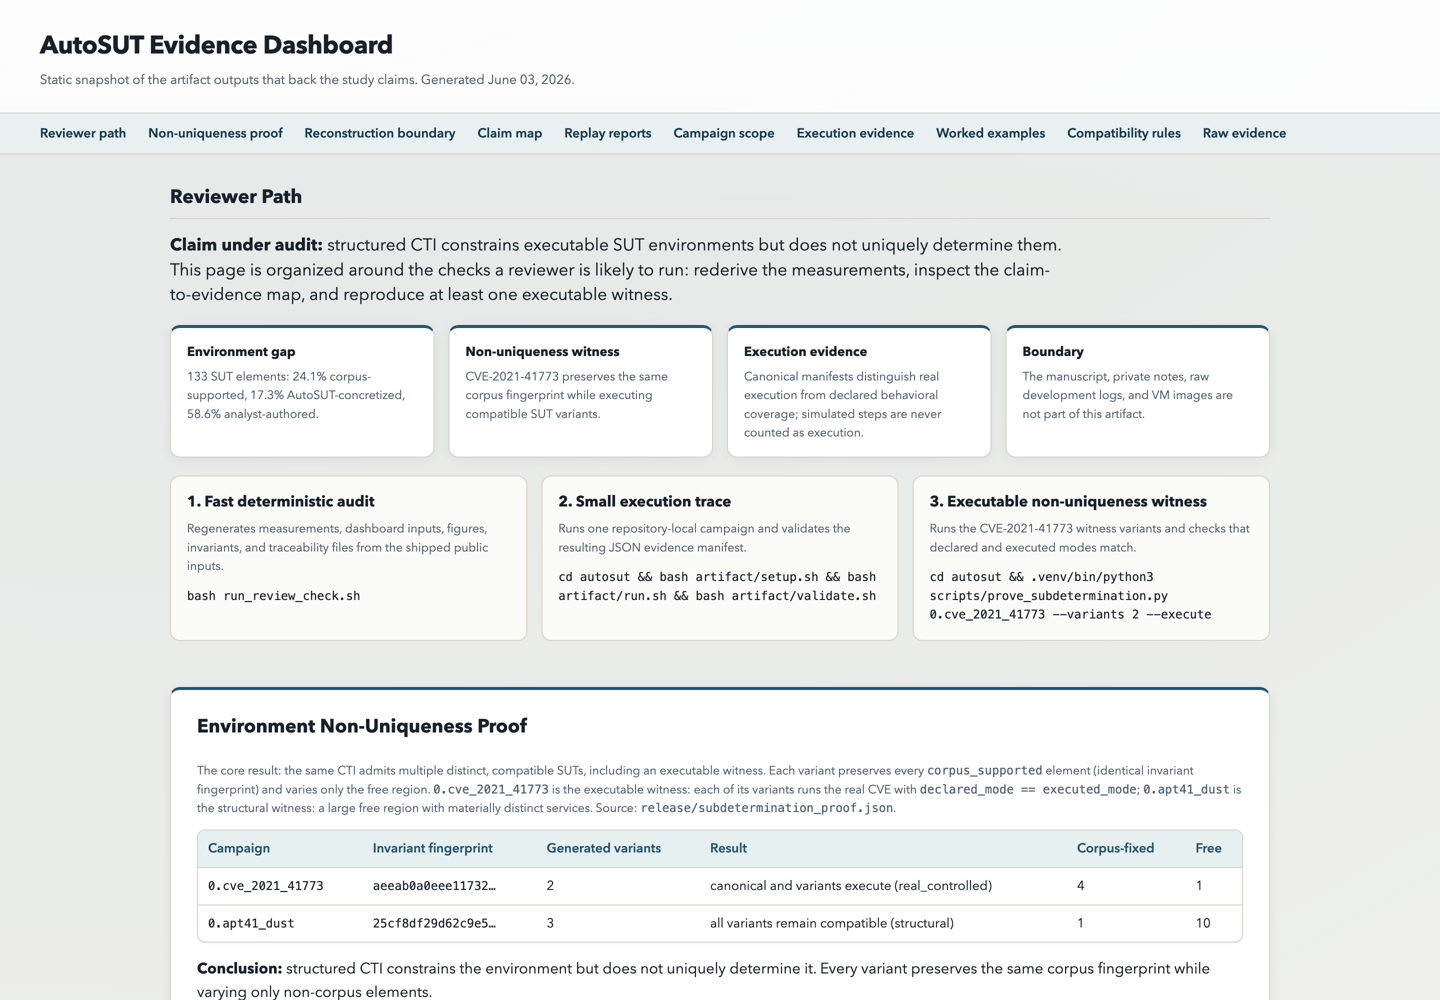
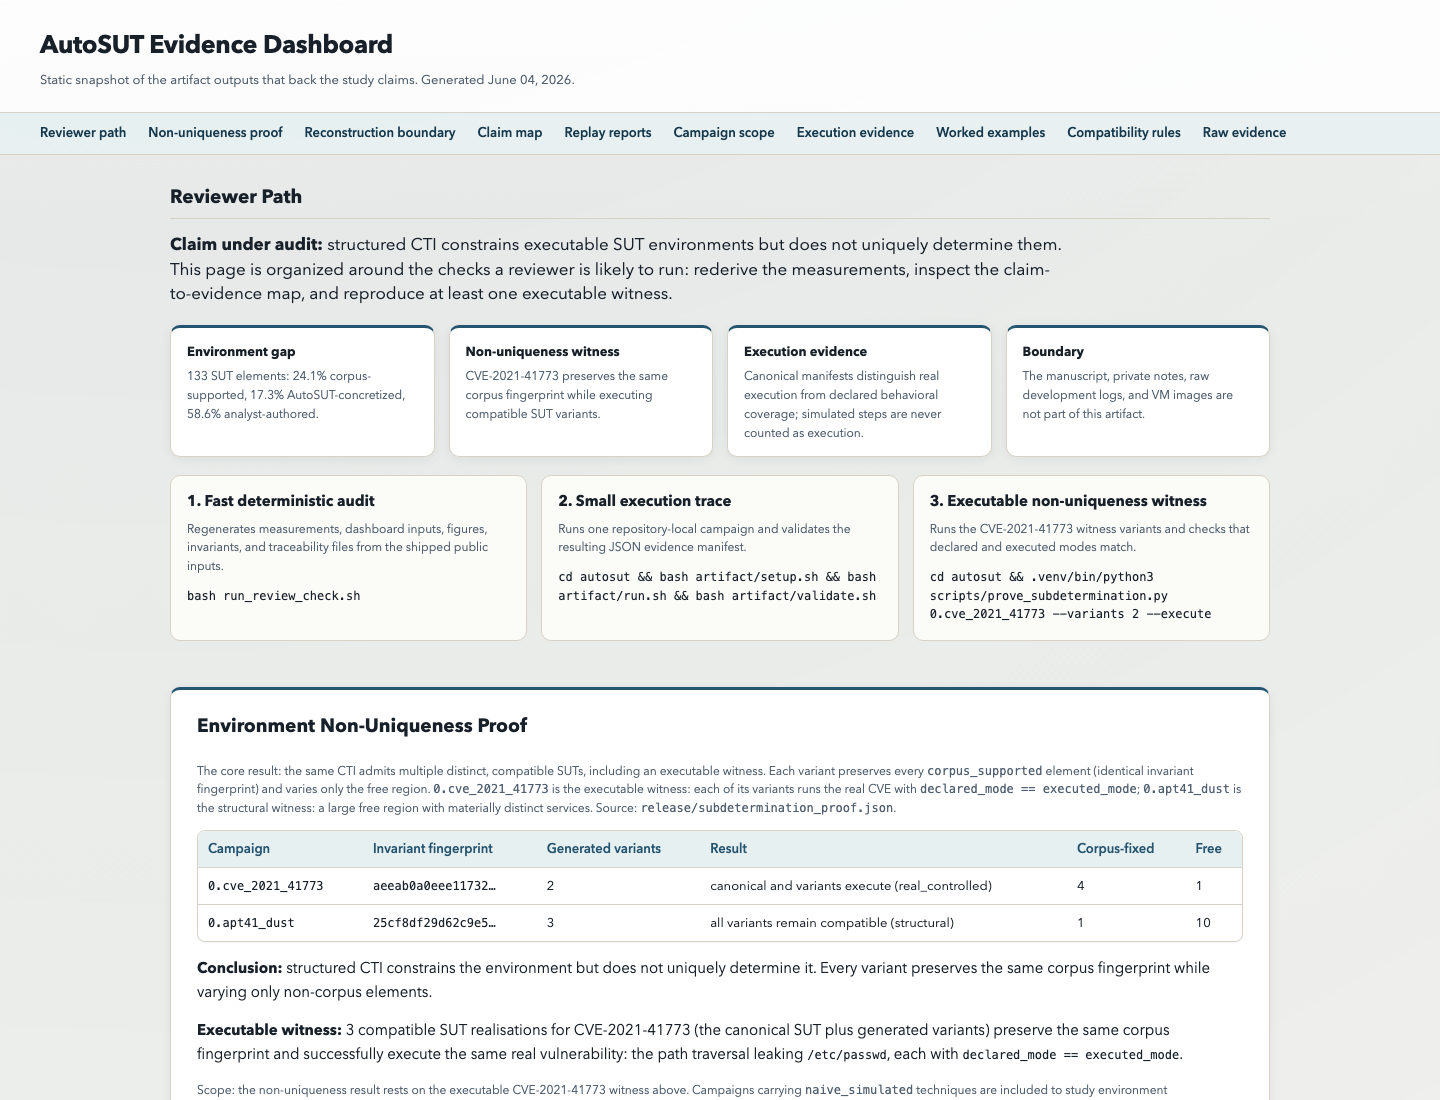
Refresh dashboard README preview

Changed region(s): [[0.0312, 0.031, 0.9062, 1.0]]

diff --git a/ARTIFACT_MANIFEST.md b/ARTIFACT_MANIFEST.md
@@ -270,8 +270,8 @@
[10 lines of base64/hex data omitted]
@@ -298,7 +298,7 @@
[8 lines of base64/hex data omitted]
@@ -513,8 +513,8 @@
[10 lines of base64/hex data omitted]

diff --git a/autosut/release/dashboard/data/ENVIRONMENT_PROVENANCE.md b/autosut/release/dashboard/data/ENVIRONMENT_PROVENANCE.md
@@ -1,6 +1,6 @@
 # Environment Provenance
 
-- Generated at: `2026-06-03T21:24:28`
+- Generated at: `2026-06-03T21:59:31`
 - Campaigns measured: `19`
 - Total tagged SUT elements: `133`
 - Policy: 3-category hybrid (`corpus_supported` / `autosut_concretized` / `analyst_authored`).

diff --git a/autosut/release/provenance/ENVIRONMENT_PROVENANCE.md b/autosut/release/provenance/ENVIRONMENT_PROVENANCE.md
@@ -1,6 +1,6 @@
 # Environment Provenance
 
-- Generated at: `2026-06-03T21:24:25`
+- Generated at: `2026-06-03T21:59:27`
 - Campaigns measured: `19`
 - Total tagged SUT elements: `133`
 - Policy: 3-category hybrid (`corpus_supported` / `autosut_concretized` / `analyst_authored`).
